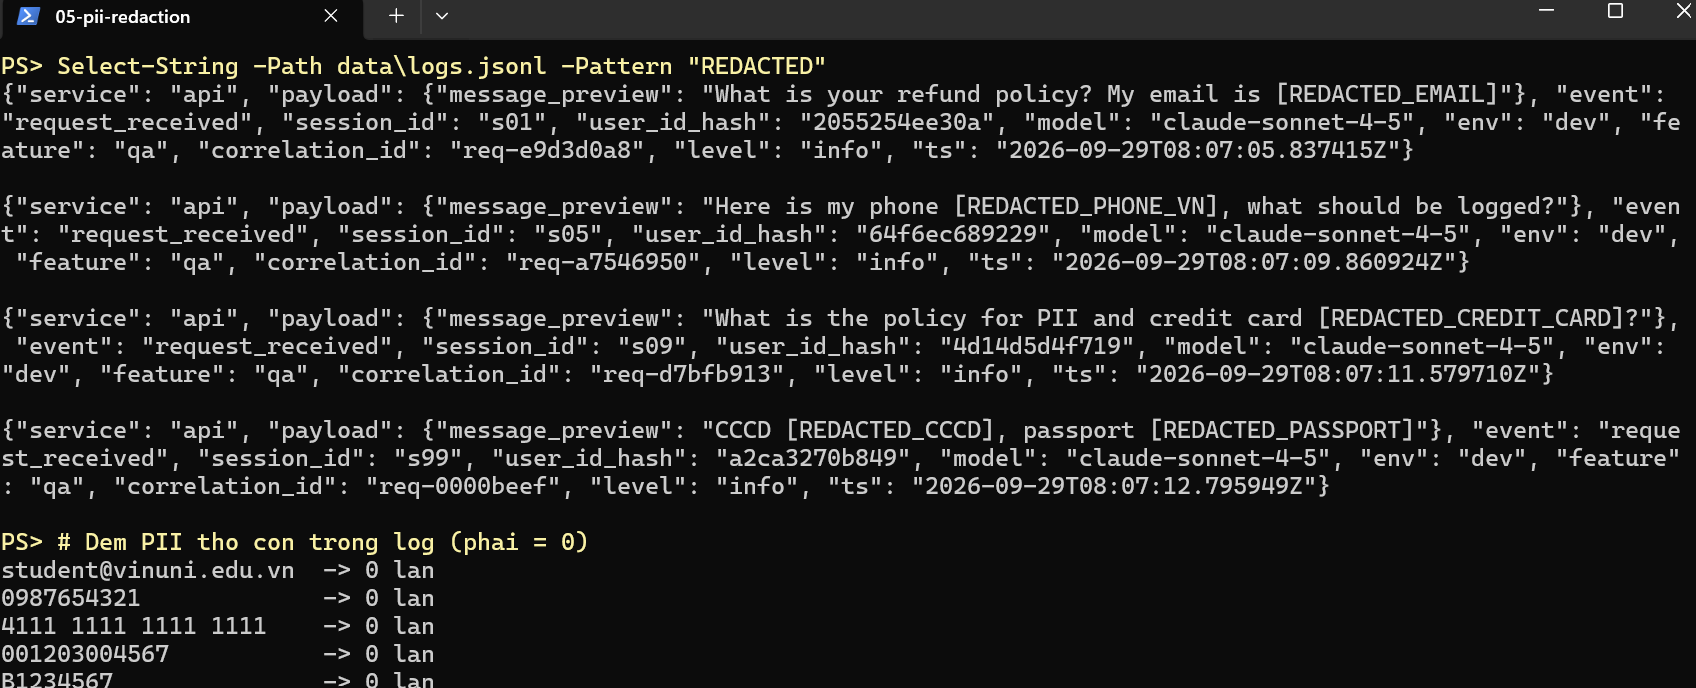
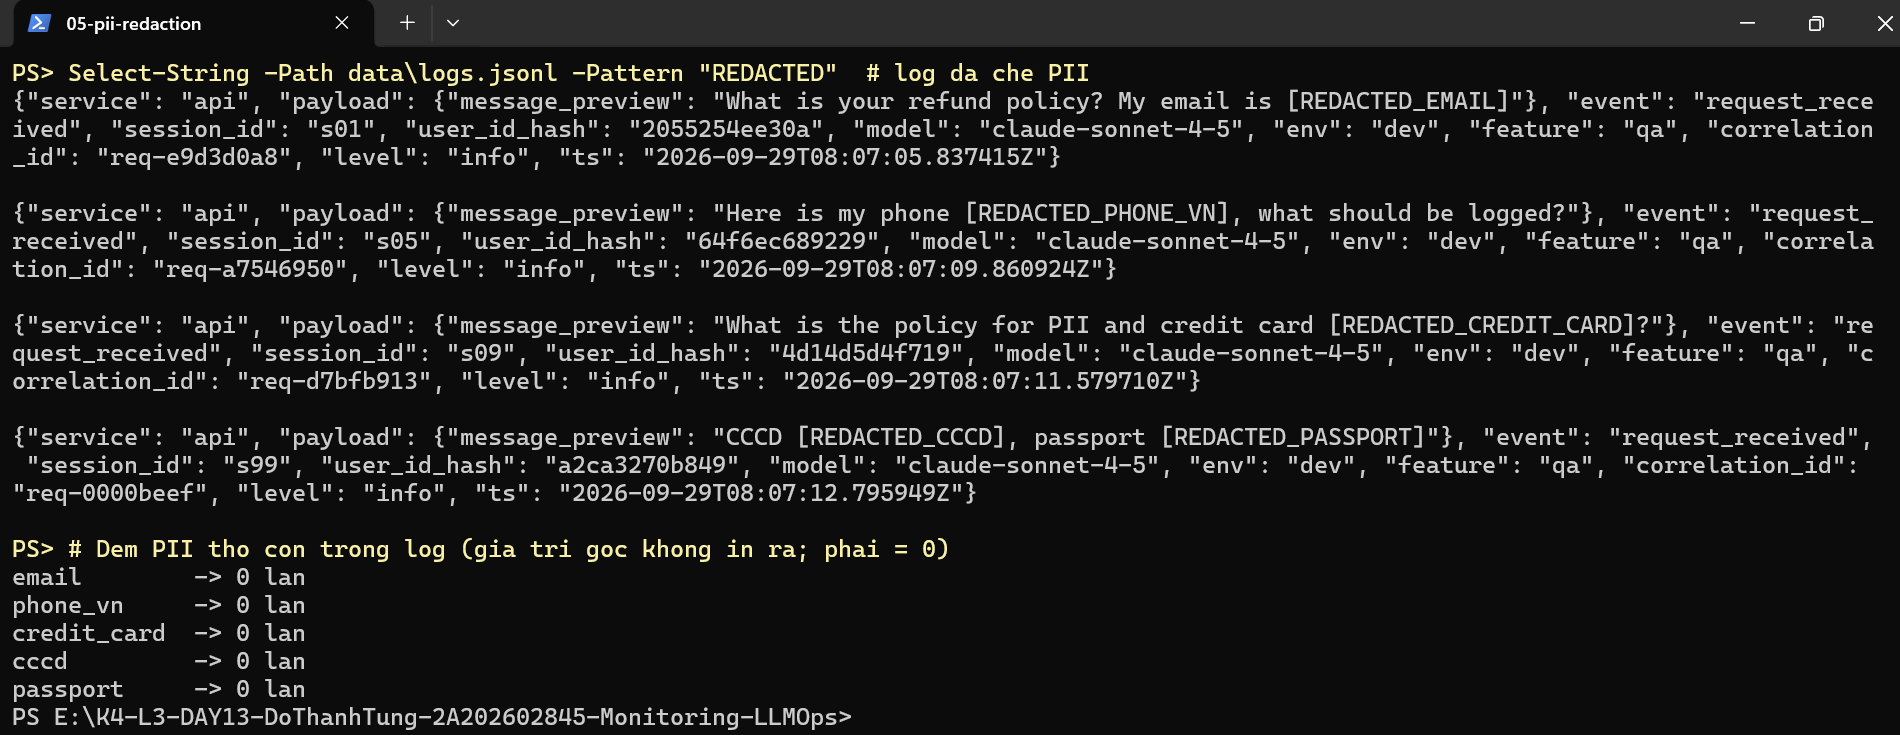
fix(cp4): remove raw sample PII from evidence
- 05-pii-redaction: count leftover PII by type instead of printing the
  sample values, so evidence contains no verbatim PII
- REPORT: lead sentence for preventive measures

diff --git a/submission/REPORT.md b/submission/REPORT.md
@@ -120,7 +120,7 @@
   - Cả 5 trace challenge đều có `retrieve` ≈ 2.50 s. Riêng `req-2597662b` (trace `e3820ea502e49a6e69a83e42f1e089f3`, 3867 ms) cộng thêm 1.2 s ở `resolve-prompt`, do cold prompt fetch khi request đầu tiên sau khi API reload phải lấy prompt từ Langfuse. Đây là yếu tố phụ, không phải root cause.
 - **Root cause:** incident `rag_slow` làm bước retrieval (vector store, `app/mock_rag.py`) chậm thêm ≈ 2.5 s mỗi request. Retrieval chạy tuần tự trước khi gọi LLM nên toàn bộ độ trễ cộng thẳng vào latency, trong khi LLM và prompt không đổi. Metric (P50/P95 tăng, TTFT và error bình thường), log (`latency_ms` 2652 nhưng `ttft_ms` 50) và trace (`retrieve` 2.50 s / 2.65 s) cùng chỉ về một span. Thêm nữa, endpoint `async def /chat` gọi agent đồng bộ nên các request đồng thời bị xếp hàng: client của request cuối phải chờ 14.8 s dù server chỉ đo 2.65 s.
 - **Fix action:** theo runbook Alert 1, gỡ nguồn chậm bằng `python scripts/inject_incident.py --disable` (tương đương khôi phục vector store / chuyển sang index dự phòng). Kiểm chứng bằng cách chạy lại đúng 5 query challenge: `latency_ms` giảm từ [3867, 2652, 2654, 2653, 2652] xuống [1333, 151, 152, 152, 152]. Request 1333 ms là cold prompt fetch, `retrieve` về ≈ 0 ms (`evidence/12-incident-run.txt`).
-- **Preventive measure:**
+- **Preventive measure:** bốn việc để sự cố tương tự không vượt SLO hoặc bị phát hiện muộn:
   1. Đặt timeout ~500 ms cho retrieval kèm fallback (cache kết quả gần nhất hoặc trả lời "không có tài liệu") để vector store chậm không kéo cả request quá SLO.
   2. Chạy agent đồng bộ bằng `run_in_threadpool` (hoặc đổi endpoint thành `def`) để một request chậm không chặn event loop và các request khác.
   3. Thêm alert riêng cho span `retrieve` (P95 duration > 500 ms trong 5 phút) bên cạnh `HighLatencyP95`, vì alert tổng cần 5 phút mới bắn còn sự cố challenge chỉ kéo dài 16 s.
